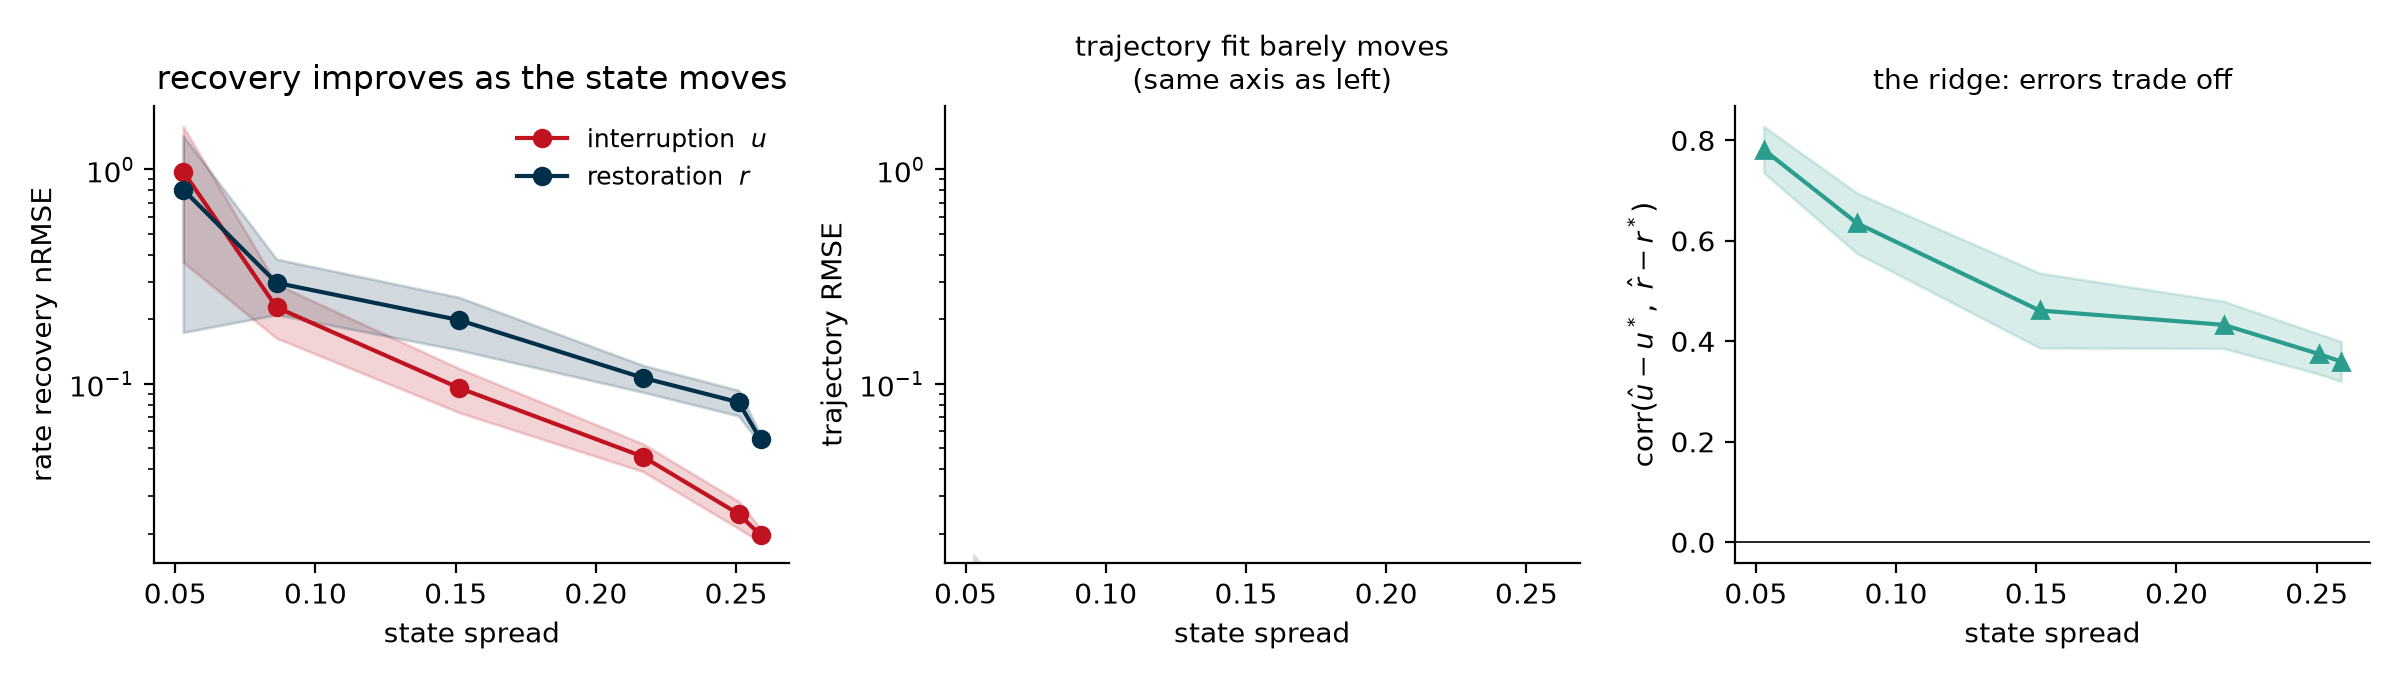
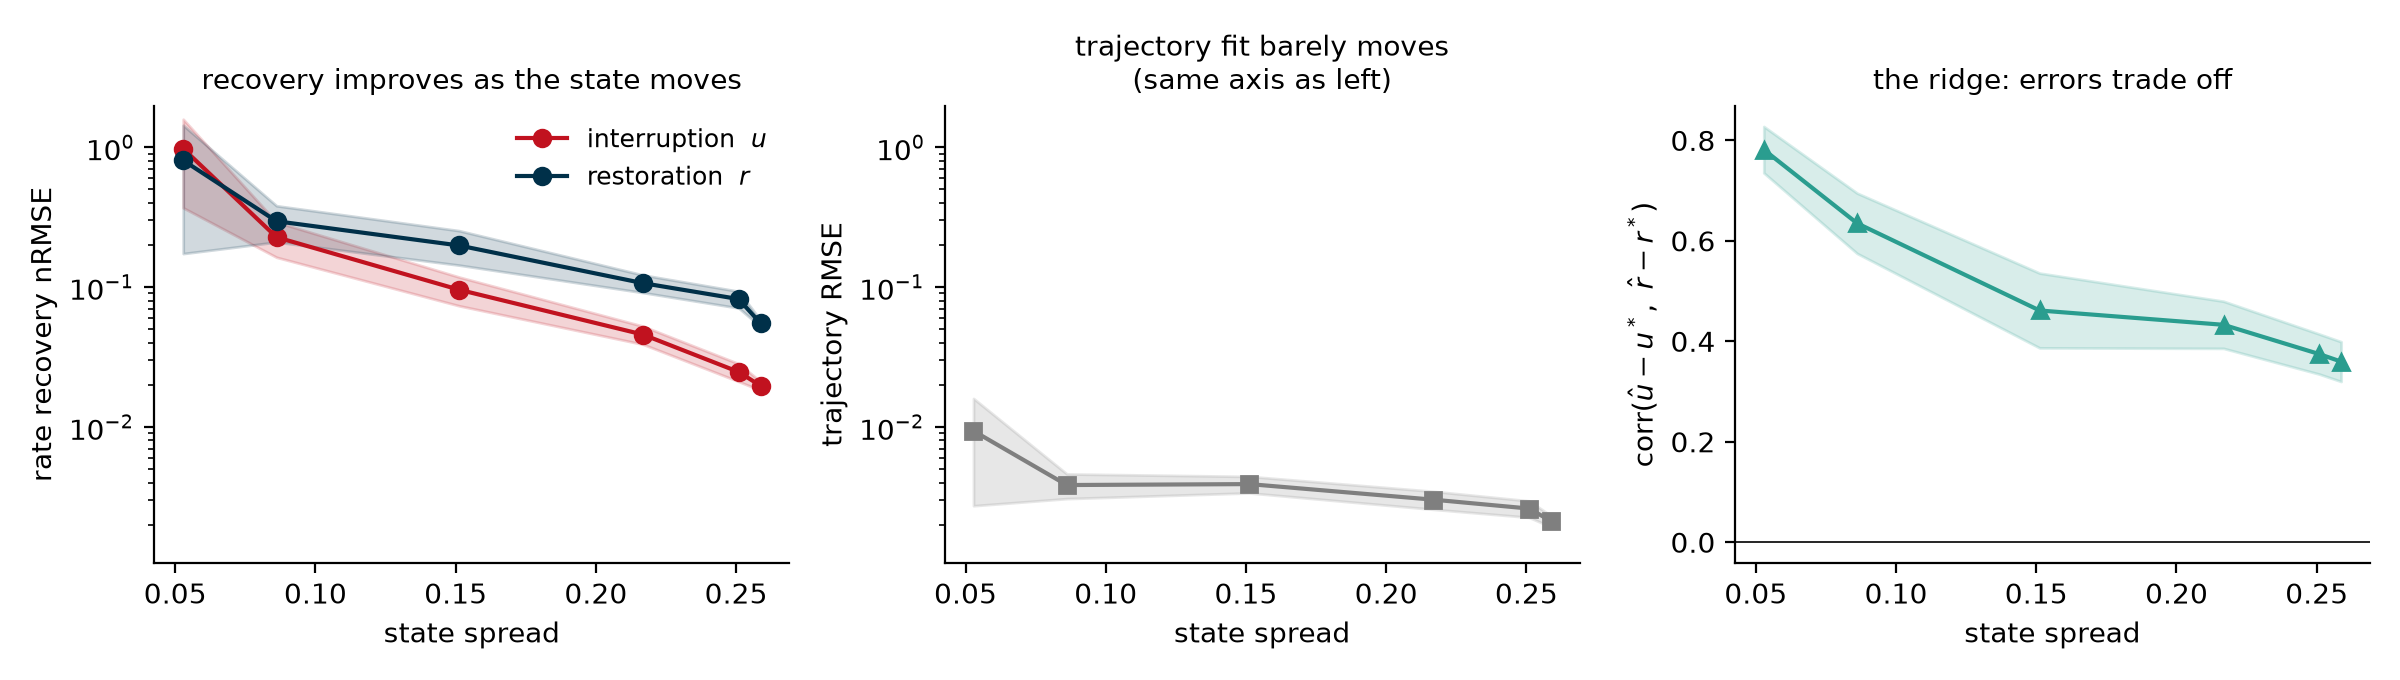
Fix shared axis range so the trajectory-vs-recovery comparison is visible

diff --git a/scripts/make_figures.py b/scripts/make_figures.py
@@ -32,13 +32,19 @@ def fig_identifiability():
         ax[0].plot(x, m, "o-", color=c, label=lab)
         ax[0].fill_between(x, m - s, m + s, color=c, alpha=0.18)
     ax[0].set_yscale("log"); ax[0].set_xlabel("state spread"); ax[0].set_ylabel("rate recovery nRMSE")
-    ax[0].set_title("recovery improves as the state moves"); ax[0].legend(frameon=False, fontsize=9)
+    ax[0].set_title("recovery improves as the state moves", fontsize=10)
+    ax[0].legend(frameon=False, fontsize=9)
 
     a = agg(rows, "traj_rmse", "pulse_scale")
     m = np.array([a[j][0] for j in sorted(a)]); s = np.array([a[j][1] for j in sorted(a)])
     ax[1].plot(x, m, "s-", color="#7f7f7f"); ax[1].fill_between(x, m - s, m + s, color="#7f7f7f", alpha=0.18)
     ax[1].set_yscale("log"); ax[1].set_xlabel("state spread"); ax[1].set_ylabel("trajectory RMSE")
-    ax[1].set_ylim(ax[0].get_ylim())
+    # Both panels share one decade range so the comparison is read off the page
+    # rather than taken on trust: recovery error spans nearly two decades over
+    # the same sweep in which trajectory error spans a factor of four.
+    lo = min(ax[0].get_ylim()[0], m.min() * 0.5)
+    hi = max(ax[0].get_ylim()[1], m.max() * 2)
+    ax[0].set_ylim(lo, hi); ax[1].set_ylim(lo, hi)
     ax[1].set_title("trajectory fit barely moves\n(same axis as left)", fontsize=10)
 
     a = agg(rows, "err_corr", "pulse_scale")
